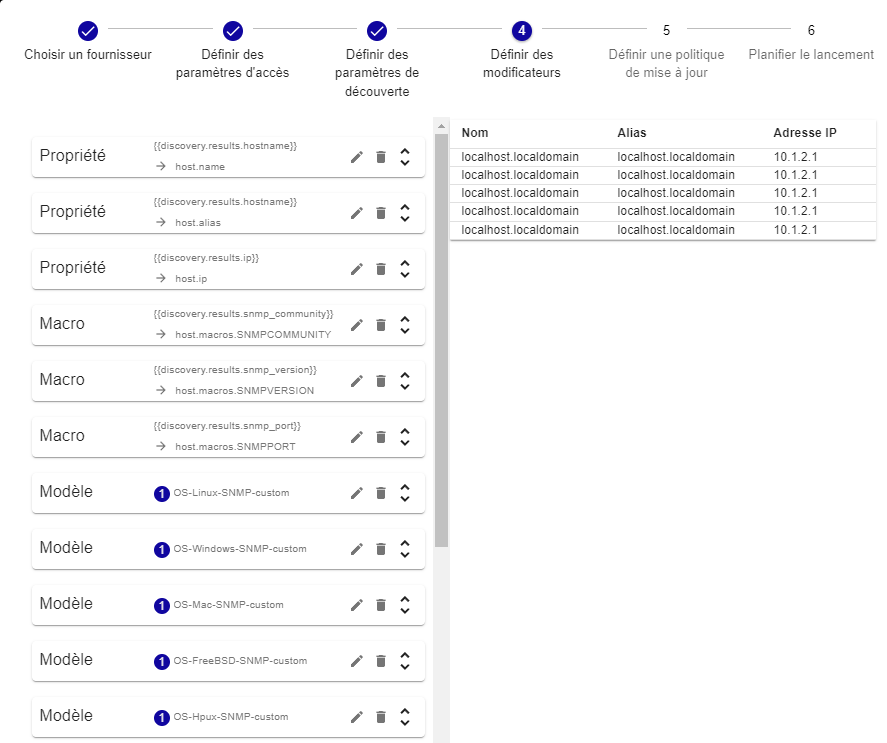
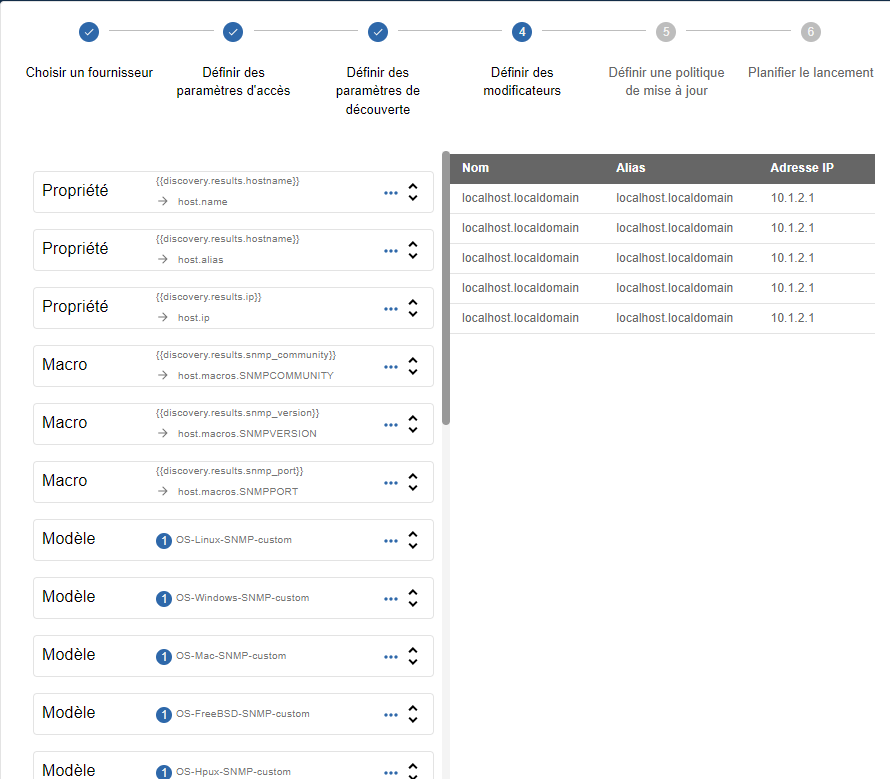
Info about mappers 23.04

diff --git a/i18n/fr/docusaurus-plugin-content-docs/version-23.04/monitoring/discovery/hosts-discovery.md b/i18n/fr/docusaurus-plugin-content-docs/version-23.04/monitoring/discovery/hosts-discovery.md
@@ -260,6 +260,8 @@ de ces attributs avec une ou plusieurs chaînes de caractères personnalisées.
 
 ![image](../../assets/monitoring/discovery/host-discovery-mappers-concatenation.gif)
 
+Lorsque vous définissez plusieurs modificateurs du même type et que les conditions s'appliquent à plusieurs d'entre eux, le dernier modificateur prend le pas sur les autres (ceux situés avant lui). Cela s'applique aux modificateurs suivants : supervision, sévérité, propriété, macros.
+
 ### Ajouter un modificateur
 
 1. Depuis l'étape quatre de l'assistant de création d'une tâche, ou depuis le
@@ -275,7 +277,7 @@ tous les champs requis.
 
 1. Depuis l'étape quatre de l'assistant de création d'une tâche, ou depuis
 le panneau d'édition dans la section **Modificateurs**, cliquez sur l'icône
-d'édition : ![image](../../assets/monitoring/discovery/host-discovery-edit.png#thumbnail1)
+**Plus d'actions**, puis cliquez sur **Éditer**.
 
 2. Modifiez n'importe quel champ ou le type de modificateur lui-même. Voir [Éditer une tâche de découverte](#éditer-une-tâche-de-découverte).
 
@@ -284,12 +286,20 @@ d'édition : ![image](../../assets/monitoring/discovery/host-discovery-edit.png#
 ### Supprimer un modificateur
 
 1. Depuis l'étape quatre de l'assistant de création d'une tâche, ou depuis le
-panneau d'édition dans la section **Modificateurs**, cliquez sur l'icône de
-suppression :  ![image](../../assets/monitoring/discovery/host-discovery-delete.png#thumbnail1)
+panneau d'édition dans la section **Modificateurs**, cliquez sur l'icône
+**Plus d'actions**, puis cliquez sur **Supprimer**.
 
   Une fenêtre demandera de confirmer l'action.
 
 2. Cliquez sur **SUPPRIMER** pour supprimer le modificateur.
+
+### Dupliquer un modificateur
+
+1. Depuis l'étape quatre de l'assistant de création d'une tâche, ou depuis le
+panneau d'édition dans la section **Modificateurs**, cliquez sur l'icône
+**Plus d'actions**, puis cliquez sur **Dupliquer**.
+
+2. Entrez le nombre de copies à faire du modificateur, puis cliquez sur **Dupliquer**.
 
 ## Types de modificateur
 
@@ -398,6 +408,8 @@ supervision l'hôte sera supervisé. Celui-ci est obligatoire.
 Le bouton radio **Sélecteur d'instance de supervision** permet de choisir entre
 le serveur de supervision défini dans la tâche ou depuis ceux disponibles sur
 la plateforme Centreon.
+
+Si aucun modificateur de type **Supervision** ne s'applique à un hôte (à cause de conditions trop restrictives que vous auriez définies), le serveur de supervision sur lequel est exécuté le job sera sélectionné par défaut.
 
 ### Exclusion
 

diff --git a/versioned_docs/version-23.04/monitoring/discovery/hosts-discovery.md b/versioned_docs/version-23.04/monitoring/discovery/hosts-discovery.md
@@ -251,6 +251,8 @@ From version 21.04, mappers **Property**, **Macro**, **Host group** and **Host c
 
 ![image](../../assets/monitoring/discovery/host-discovery-mappers-concatenation.gif)
 
+When you define several mappers of the same type and the conditions apply for several of them, the last mapper will prevail over the others (the one at the bottom of the list). This applies to the following mappers: monitoring, severity, property, macros.
+
 ### Add a mapper
 
 1. In the job wizard at step four, or on the edition panel in the **Mappers**
@@ -264,7 +266,7 @@ field.
 ### Edit a mapper
 
 1. In the job wizard at step four, or on the edition panel in the **Mappers**
-section, click on the **Edit** icon: ![image](../../assets/monitoring/discovery/host-discovery-edit.png#thumbnail1)
+section, click on the **More actions** icon, then click **Edit**.
 
 2. Edit the fields you want, or even the type of mapper. See [Edit a discovery job](#edit-a-discovery-job).
 
@@ -273,11 +275,18 @@ section, click on the **Edit** icon: ![image](../../assets/monitoring/discovery/
 ### Delete a mapper
 
 1. In the job wizard at step four, or on the edition panel in the **Mappers**
-section, click on the **Delete** icon: ![image](../../assets/monitoring/discovery/host-discovery-delete.png#thumbnail1)
+section, click on the **More actions** icon, then click **Delete**.
 
   A popin window will ask you to confirm the action.
 
 2. Click on **DELETE** to delete the mapper.
+
+### Duplicate a mapper
+
+1. In the job wizard at step four, or on the edition panel in the **Mappers**
+section, click on the **More actions** icon, then click **Duplicate**.
+
+2. Enter the number of copies of the mapper you want to make, then click **Duplicate**.
 
 ## Types of mappers
 
@@ -382,6 +391,8 @@ monitoring server defined in the job or from the ones available on the
 Centreon platform.
 
 This mapper is mandatory.
+
+If no Monitoring mapper applies to the host (because you have defined too strict conditions), the monitoring server on which the job runs will be selected by default.
 
 ### Exclusion
 
